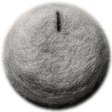
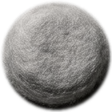
Tape player: the knobs stay still; only the line on their face turns
Claude-Session: https://claude.ai/code/session_01NDsvQ4w6b4M39K7iEhCswz

Changed region(s): [[0.4554, 0.0804, 0.5625, 0.3214]]

diff --git a/src/components/TapePlayer.js b/src/components/TapePlayer.js
@@ -3,7 +3,7 @@
 //   Record / Play / Pause: the three felt buttons (Record records your voice in the open book, like the red
 //     button in the reading bar; the little red light comes on only while recording)
 //   Sounds (top window) and Music (bottom window): tap a knob to click through the choices; the choice shows
-//     in the window in white, and the knob turns a notch each click
+//     in the window in white, and the line on the knob turns a notch each click
 //   Volume (the slider top left, a grey felt dot on a stitched line): drag the dot, or tap the line
 //   the three lines at the top: open the Music and Sounds page; the down arrow: close the player
 import React, { useEffect, useRef, useState } from 'react';
@@ -121,10 +121,18 @@ export default function TapePlayer({ bottomBar = 0, sideBar = 0, onMenu, toast }
       </View>
       {/* the knobs: tap to click to the next choice */}
       <Pressable onPress={() => stepAmbient('sound')} style={at(663, 1166, 168, 168)} accessibilityRole="button" accessibilityLabel={`${t('Sounds')}: ${name(s.sound)}`}>
-        <Animated.Image source={KNOB1} style={[{ width: 168 * f, height: 168 * f }, turn(k1)]} />
+        <Image source={KNOB1} style={{ width: 168 * f, height: 168 * f }} />
+          {/* the knob stays put; only the little line on its face goes round */}
+          <Animated.View pointerEvents="none" style={[{ position: 'absolute', left: 0, top: 0, width: 168 * f, height: 168 * f }, turn(k1)]}>
+            <View style={[styles.mark, { left: 168 * f * 0.482, top: 168 * f * 0.1, width: 168 * f * 0.036, height: 168 * f * 0.19 }]} />
+          </Animated.View>
       </Pressable>
       <Pressable onPress={() => stepAmbient('music')} style={at(663, 1471, 168, 168)} accessibilityRole="button" accessibilityLabel={`${t('Music')}: ${name(s.music)}`}>
-        <Animated.Image source={KNOB2} style={[{ width: 168 * f, height: 168 * f }, turn(k2)]} />
+        <Image source={KNOB2} style={{ width: 168 * f, height: 168 * f }} />
+          {/* the knob stays put; only the little line on its face goes round */}
+          <Animated.View pointerEvents="none" style={[{ position: 'absolute', left: 0, top: 0, width: 168 * f, height: 168 * f }, turn(k2)]}>
+            <View style={[styles.mark, { left: 168 * f * 0.482, top: 168 * f * 0.1, width: 168 * f * 0.036, height: 168 * f * 0.19 }]} />
+          </Animated.View>
       </Pressable>
       </View>
     </Animated.View>
@@ -137,6 +145,7 @@ const styles = StyleSheet.create({
   inner: { borderRadius: 10, overflow: 'hidden' },
   light: { borderRadius: 30, backgroundColor: '#a5121d', shadowColor: '#ff3b30', shadowOpacity: 0.8, shadowRadius: 4, shadowOffset: { width: 0, height: 0 } },
   label: { fontFamily: fonts.ui, fontWeight: '600', color: '#4a4a4a' },
+  mark: { position: 'absolute', borderRadius: 2, backgroundColor: '#2a2a2d' },
   track: { borderRadius: 6, backgroundColor: '#7c7b7a' },
   trackOn: { backgroundColor: '#3f3f44' },
   window: { justifyContent: 'center', paddingHorizontal: 3 },
